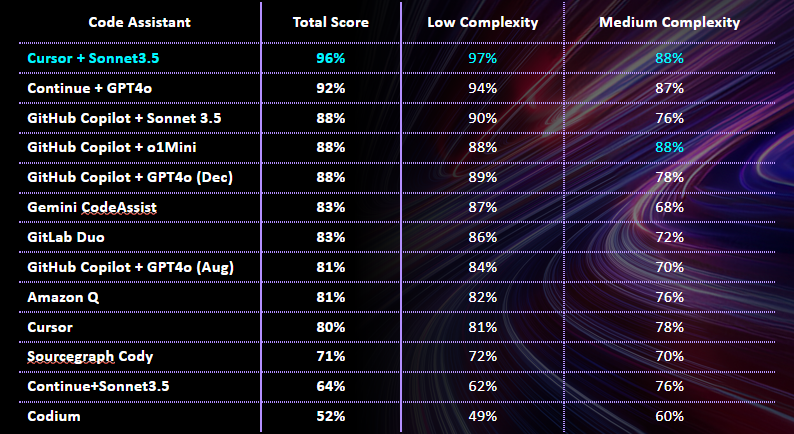
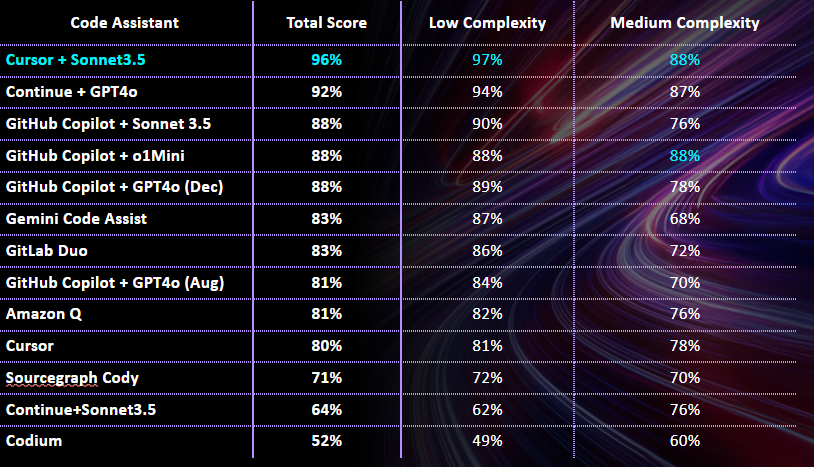
Update reports

Changed region(s): [[0.0, 0.0, 1.0, 1.0], [0.0907, 0.03, 0.2418, 0.0599]]

diff --git a/pages/sandbox-test/code-assistants.md b/pages/sandbox-test/code-assistants.md
@@ -21,8 +21,8 @@ Other tools according to our research don't represent a significant interest.
 | [GitHub Copilot](https://github.com/features/copilot) + [Sonnet 3.5](https://www.anthropic.com/news/claude-3-5-sonnet)                         | November 2024 | [Sandbox Tests - Nov 2024](reports/copilot/copilot-sonnet-sandbox-tests-november-2024.md) <br> [Golf App Tests - Nov 2024](reports/copilot/copilot-sonnet-golf-app-tests-november-2024.md)    | As of November 2024 looks like an experimental feature of Copilot as not all tests can pass. Good score overall but slower than o1.                                                                                                                                                                                                                                                                                                                                                                                                                                                                                                | 88%                                   | 90%                 | 76%                    |
 | [GitHub Copilot](https://github.com/features/copilot) + [o1-mini](https://openai.com/index/openai-o1-mini-advancing-cost-efficient-reasoning/) | November 2024 | [Sandbox Tests - Nov 2024](reports/copilot/copilot-o1mini-sandbox-tests-november-2024.md) <br> [Golf App Tests - Nov 2024](reports/copilot/copilot-o1mini-golf-app-tests-november-2024.md)    | Fast and accurate across all usecases. Score a bit lower than the leading combination Cursor + Sonnet 3.5.                                                                                                                                                                                                                                                                                                                                                                                         | 88%                                   | 88%                 | **88%**                |
 | [GitHub Copilot](https://github.com/features/copilot) + [GPT4o](https://platform.openai.com/docs/models/gpt-4o)                                | December 2024 | [Sandbox Tests - December 2024](reports/copilot/copilot-gpt4o-sandbox-tests-december-2024.md) <br> [Golf App Tests - Dec 2024](reports/copilot/copilot-gpt4o-golf-app-tests-december-2024.md) | Copilot + GPT4o is similar to Copilot +o1mini. While Copilot +o1mini generates more code examples and documentation in the chat window, Copilot + GPT4o provides a more concise output. Both are approximately equal in terms of response generation speed.                                                                                                                                                                                                                                                                                | 88%                                   | 89%                 | 78%                    |
-| [Gemini](https://cloud.google.com/gemini/docs/overview)                                                                                        | Sep 2024      | [Sandbox Tests - Sep 2024](reports/gemini/gemini-sandbox-tests-september-2024.md) <br> [Golf App Tests - Sep 2024](reports/gemini/gemini-golf-app-tests-september-2024.md)                    | Good score overall but lower than Copilot + o1. Very close to Amazon Q.                                                                                                                                                                                                                                                                                                                                                                                                                                                                                                                                                            | 83%                                   | 87%                 | 68%                    |
-| [GitLab Duo](https://cloud.google.com/gemini/docs/overview)                             | December 2024 | [Gitlab Duo - December 2024](reports/gitlab-duo/gitlab-duo-december-2024.md)      | GitLab Duo serves as an alternative to GitHub Copilot, offering a suite of AI-powered tools designed to integrate seamlessly within the GitLab ecosystem. It includes features such as a dedicated coding assistant plugin, integration with GitLab Server (available through a separate enterprise subscription), a CLI assistant, and a coding agent similar to GitHub Copilot's Workspace. <br> While GitLab Duo is a strong contender, it currently trails GitHub Copilot by an estimated 5-15% in certain areas , positioning it closer to solutions like Google Gemini according to our benchmark. However reliability may be a concern as we noticed instabilities while running our tests.            | 83%                                   | 86%                 | 72%                    |
+| [Gemini Code Assist](https://cloud.google.com/gemini/docs/overview)                                                                            | Sep 2024      | [Sandbox Tests - Sep 2024](reports/gemini/gemini-sandbox-tests-september-2024.md) <br> [Golf App Tests - Sep 2024](reports/gemini/gemini-golf-app-tests-september-2024.md)                    | Good score overall but lower than Copilot + o1. Very close to Amazon Q.                                                                                                                                                                                                                                                                                                                                                                                                                                                                                                                                                            | 83%                                   | 87%                 | 68%                    |
+| [GitLab Duo](https://cloud.google.com/gemini/docs/overview)                                                                                    | December 2024 | [Gitlab Duo - December 2024](reports/gitlab-duo/gitlab-duo-december-2024.md)      | GitLab Duo serves as an alternative to GitHub Copilot, offering a suite of AI-powered tools designed to integrate seamlessly within the GitLab ecosystem. It includes features such as a dedicated coding assistant plugin, integration with GitLab Server (available through a separate enterprise subscription), a CLI assistant, and a coding agent similar to GitHub Copilot's Workspace. <br> While GitLab Duo is a strong contender, it currently trails GitHub Copilot by an estimated 5-15% in certain areas , positioning it closer to solutions like Google Gemini according to our benchmark. However reliability may be a concern as we noticed instabilities while running our tests.            | 83%                                   | 86%                 | 72%                    |
 | [GitHub Copilot](https://github.com/features/copilot) + [GPT4o](https://platform.openai.com/docs/models/gpt-4o)                                | Aug 2024      | [Sandbox Tests - Aug 2024](reports/copilot/copilot-sandbox-tests-august-2024.md) <br> [Golf App Tests - Aug 2024](reports/copilot/copilot-golf-app-tests-august-2024.md)                      | Used to be a leader in the score across 3 major vendors but now has been likely overtaken by AWS Amazon Q by a tiny margin. According to the tests the **chat is much more capable than code completion**. Has got some useful chat commands however does not provide a developer agent like Amazon Q.                                                                                                                                                                                                                                                                                                                             | 81%                                   | 84%                 | 70%                    |
 | [Amazon Q](https://aws.amazon.com/q/)                                                                                                          | Sep 2024      | [Sandbox Tests - Sep 2024](reports/amazon-q/amazon-q-sandbox-tests-september-2024.md) <br> [Golf App Tests - Sep 2024](reports/amazon-q/amazon-q-golf-app-tests-september-2024.md)            | Initially a laggard but recently Amazon likely did huge investments to improve this technology - the quality of answers increased approx. on 10-20% and it provides a unique developer agent - the only major vendor that released this tech - able to solve high-level tasks by generating a plan and creating code for it - it rendered much better results than its competitor Codium AI, although seemingly its dev agent can't solve all tasks. On the negative side it's code completion is much less accurate unlike its chat and responses were slow. Overall the tests score is on the level or even better than Copilot. | 81%                                   | 82%                 | 76%                    |
 | [Cursor*](https://www.cursor.com/)                                                                                                             | July 2024     | [Cursor - July 2024](reports/cursor/cursor-july-2024.md)                                                                                                                                      | Separate IDE (private build of VS Code) that has rich and efficient Gen AI capabilities tightly integrated into the IDE user journeys and scoring very high numbers in EPAM Benchmark. Although raises serious concerns being a niche IDE on its own - rarely a developer will code in VS Code, even more rarely - in some niche IDE.                                                                                                                                                                                                                                                                                              | 80%                                   | 81%                 | 78%                    |
